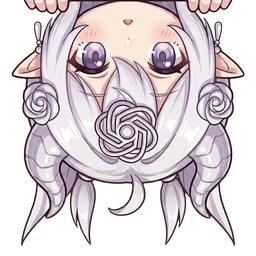
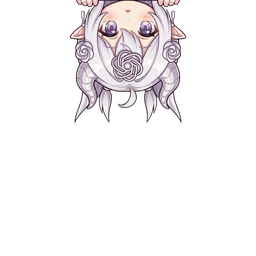
Match top-edge head size to standing pet

diff --git a/定制说明.md b/定制说明.md
@@ -12,7 +12,7 @@
 
 新增用户提供的偷看图透明素材：贴近桌面工作区上边缘或右边缘后松手，会吸附并偷看；拖离边缘恢复普通姿态。靠边状态可点击查看额度，位置与靠边方向会记住，支持多显示器。额度标签放在探头下方，角色与标签透明轮廓不产生紫色杂边。
 
-上边缘已改为通过 Gemini Pro 网页生成的专用倒挂姿态，双手抓握水平屏幕边缘，保留银白发、紫眼、龙角及交织头饰。素材经补全发梢、去除额外龙角、透明处理和顶部裁切对齐；右边缘继续使用原侧面偷看图。
+上边缘已改为通过 Gemini Pro 网页生成的专用倒挂姿态，双手抓握水平屏幕边缘，保留银白发、紫眼、龙角及交织头饰。素材经补全发梢、去除额外龙角、透明处理和顶部裁切对齐；头部大小匹配普通站立姿态，相比初版上沿素材缩小 50%，保持顶部贴边。右边缘继续使用原侧面偷看图。
 
 安装方法：完整解压 Windows x64 包后运行 `安装并启动.cmd`。原来的设置与登录会话保留。
 来源：https://github.com/Jerryren5268/token_quantity_monitor
